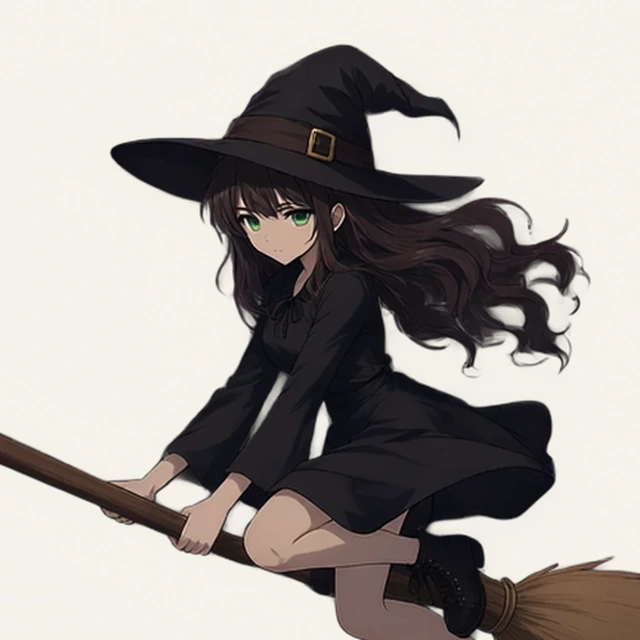
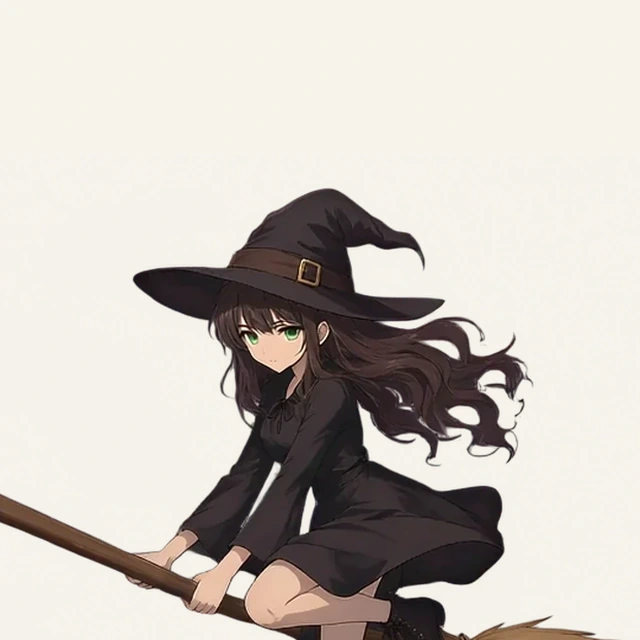
Restore lighter Kiki broom variant

diff --git a/docs/agents/kiki-assets.md b/docs/agents/kiki-assets.md
@@ -20,10 +20,10 @@
 
 | Файл | Формат | Где используется |
 |---|---|---|
-| `kiki-flight.webp` | 1280×704, RGBA | одобренный полёт, источник кропов |
+| `kiki-flight.webp` | 1280×704, RGBA | светлый вариант полёта после тёмного, источник кропов |
 | `kiki-flight-portrait.webp` | 768×1024, RGBA | вход, правая панель |
 | `kiki-flight-hero.webp` | 900×620, RGBA | hero админ-дашборда |
-| `kiki-flight-avatar.webp` | 640×640, RGB | аватар в панели/сайдбаре; полная высокая шляпа |
+| `kiki-flight-avatar.webp` | 640×640, RGB | аватар из светлого полёта; полная высокая шляпа |
 | `kiki-flight-badge.webp` | 640×640, RGBA | empty states; шляпа целиком |
 | `kiki-seated.webp` | 972×1248, RGBA | шаблоны задач, приветствие ассистента, empty; высокая шляпа |
 | `kiki-desk.webp` | 1152×1024, RGB | клиентский дашборд, framed-карточка «за работой»; высокая шляпа |
